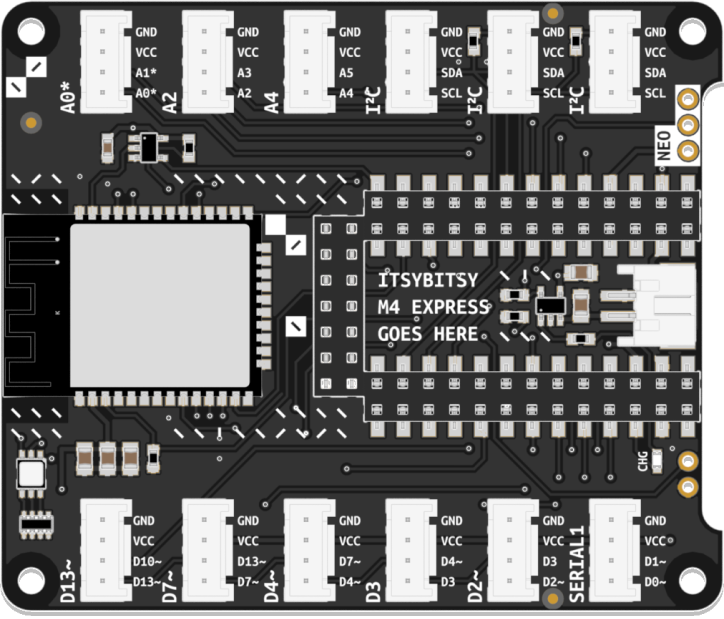
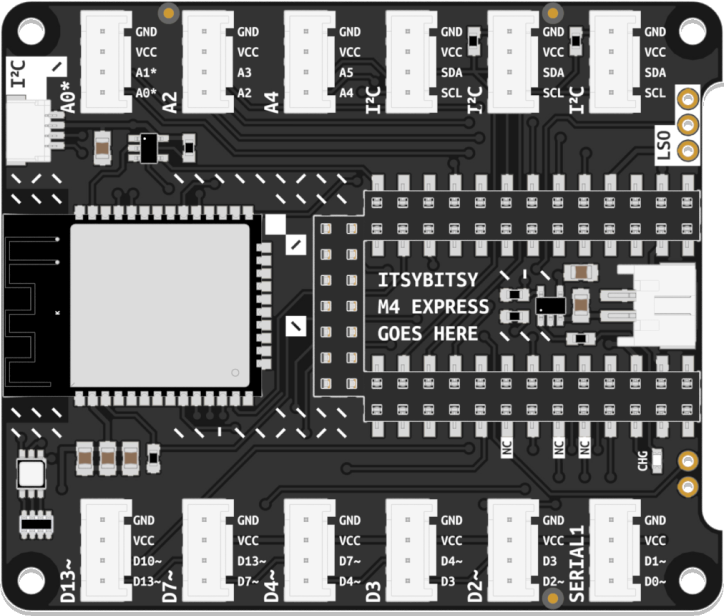
Pinout Diagrams; Updated Board Previews

diff --git a/docs/components/bitsy-expander/bitsy-expander.md b/docs/components/bitsy-expander/bitsy-expander.md
@@ -7,7 +7,7 @@ nav_order: 0
 has_children: false
 ---
 
-<img src="assets/Bitsy-Expander-Real.png" alt="BitsyExpander" width="400"/>
+<img src="assets/Bitsy-Expander-RP2040.png" alt="BitsyExpander" width="400"/>
 
 # Bitsy Expander
 Expansion board for the ItsyBitsy M4 Express, it has a number of plug-and-play connectors for quickly interfacing of components and a WiFi module - (full specs listed on the backside of the board)

diff --git a/docs/components/itsybitsy-microcontroller/itsybitsy-microcontroller.md b/docs/components/itsybitsy-microcontroller/itsybitsy-microcontroller.md
@@ -7,7 +7,7 @@ nav_order: 1
 has_children: false
 ---
 
-<img src="assets/ItsyBitsy-M4-Express-Real.png" alt="ItsyBitsy M4 Express" width="400"/>
+<img src="assets/ItsyBitsy-RP2040.png" alt="ItsyBitsy M4 Express" width="400"/>
 
 # ItsyBitsy Microcontroller
 The micro controller at the heart of you projects, it reads inputs, processes data and controls the outputs.
